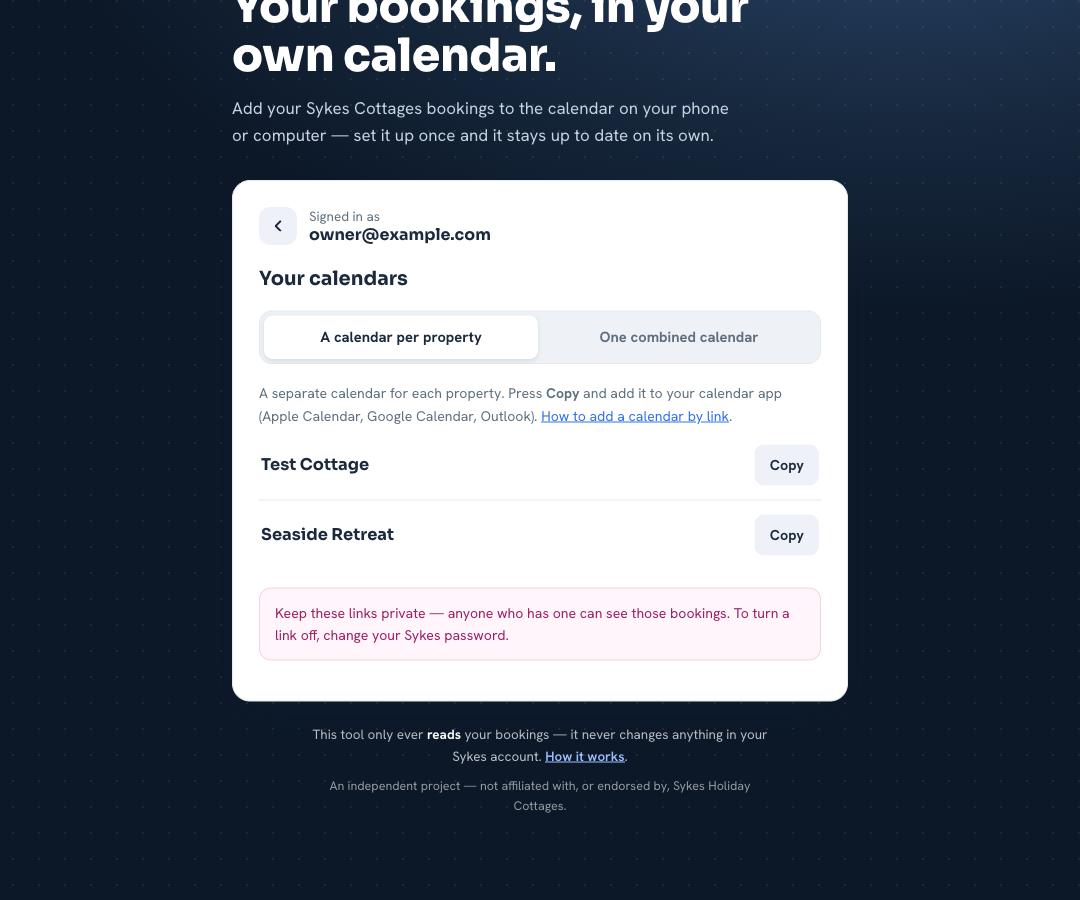
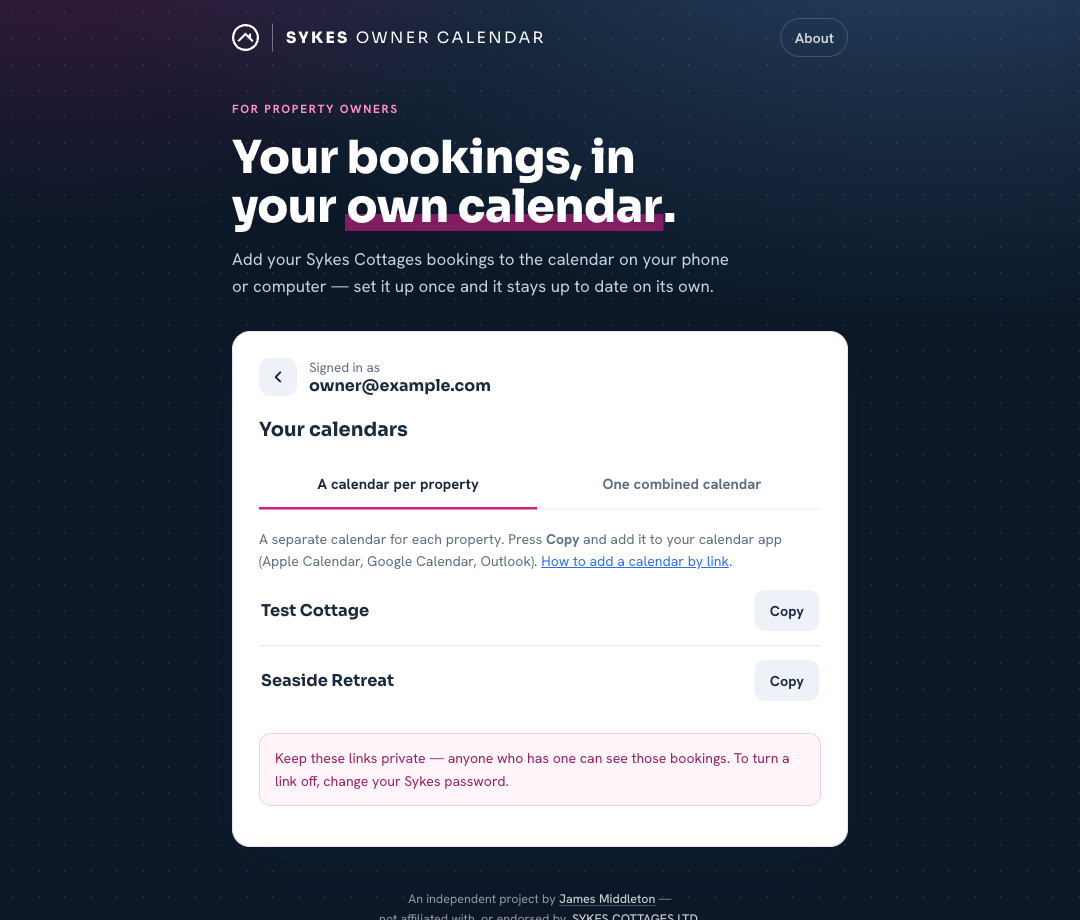
style(ui): underline active tab with the magenta accent; refresh README shots
Revert the segmented-pill tabs to the underline style, with the active tab
underlined in the magenta accent. Re-capture the README screenshots to match
the current UI.

diff --git a/routes/index.get.ts b/routes/index.get.ts
@@ -102,9 +102,10 @@ const PAGE = /* html */ `<!doctype html>
   .row { display:flex; gap:10px; align-items:center; flex-wrap:wrap; }
 
   /* ---- Tabs (segmented control) ---- */
-  .tabbar { display:flex; background:#eef2f7; border:1px solid var(--line); border-radius:13px; padding:4px; gap:4px; margin:.2rem 0 18px; }
-  .tab { flex:1; background:none; color:var(--muted); border-radius:9px; padding:10px 10px; font-weight:700; font-size:.92rem; }
-  .tab.active { background:#fff; color:var(--ink); box-shadow:0 2px 6px -1px rgba(20,40,70,.16), inset 0 -2.5px 0 var(--magenta); }
+  .tabbar { display:flex; gap:6px; border-bottom:1px solid var(--line); margin:.2rem 0 18px; }
+  .tab { flex:1; background:none; color:var(--muted); border-radius:0; padding:11px 8px; font-weight:700; font-size:.92rem;
+    border-bottom:2.5px solid transparent; margin-bottom:-1px; }
+  .tab.active { color:var(--ink); border-bottom-color:var(--magenta); }
   .tab:hover:not(.active) { color:var(--ink); }
   .tabpanel { animation:fade .35s ease; }
 
